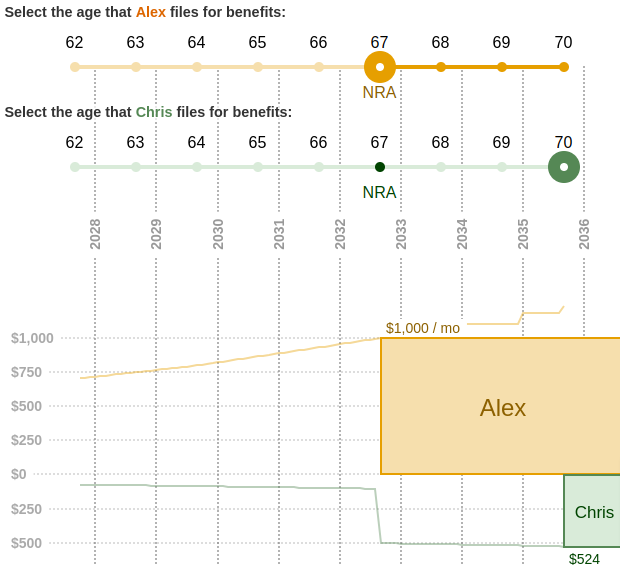
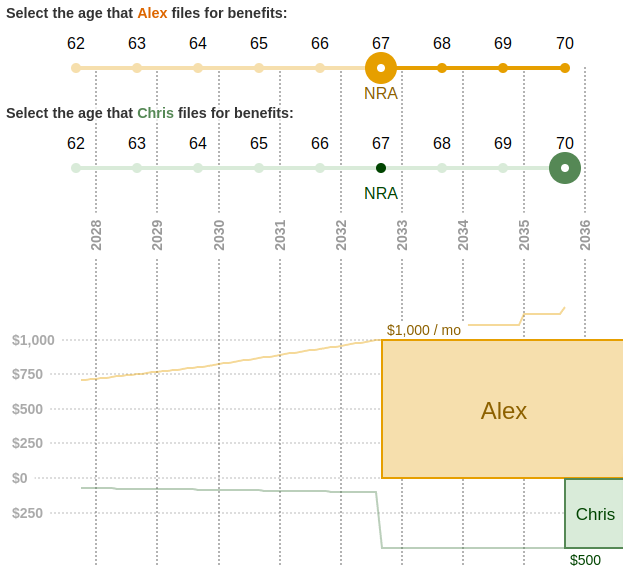
Fix spousal benefits in the case of delayed credits. (#352)

diff --git a/src/lib/recipient.ts b/src/lib/recipient.ts
@@ -636,12 +636,13 @@ export class Recipient {
     filingDate: MonthDate,
     atDate: MonthDate
   ): Money {
-    // Calculate the starting date as the latest of the two filing dates:
-    const startDate = spouseFilingDate.greaterThan(filingDate)
-      ? spouseFilingDate
-      : filingDate;
-
-    return this.spousalBenefitOnDateGivenStartDate(spouse, startDate, atDate);
+    // TODO: Remove this function since it's just aliased now.
+    return this.spousalBenefitOnDateGivenStartDate(
+      spouse,
+      spouseFilingDate,
+      filingDate,
+      atDate
+    );
   }
 
   /**
@@ -650,9 +651,15 @@ export class Recipient {
    */
   spousalBenefitOnDateGivenStartDate(
     spouse: Recipient,
-    startDate: MonthDate,
+    spouseFilingDate: MonthDate,
+    filingDate: MonthDate,
     atDate: MonthDate
   ): Money {
+    // Calculate the starting date as the latest of the two filing dates:
+    const startDate = spouseFilingDate.greaterThan(filingDate)
+      ? spouseFilingDate
+      : filingDate;
+
     // If the spouse has lower earnings, return $0:
     if (this.higherEarningsThan(spouse)) return Money.zero();
 
@@ -672,10 +679,31 @@ export class Recipient {
     }
 
     const normalRetirementDate = this.normalRetirementDate();
+
+    // Spousal Benefits start on after normal retirement date:
     if (startDate.greaterThanOrEqual(normalRetirementDate)) {
-      return Money.fromCents(spousalCents).floorToDollar();
+      if (filingDate.lessThanOrEqual(normalRetirementDate)) {
+        return Money.fromCents(spousalCents).floorToDollar();
+      }
+      // https://www.bogleheads.org/forum/viewtopic.php?p=3986794#p3986794
+      // https://secure.ssa.gov/apps10/poms.nsf/lnx/0300615694
+      // The combined spousal and personal benefits cannot be greater than
+      // 50% of the higher earner's PIA, except in the case where personal
+      // benefits alone are higher than 50% of the higher earner's PIA.
+      // The way this is computed is to reduce the spousal benefit if the sum
+      // of the spousal and personal benefits exceeds 50% of the higher
+      // earner's PIA.
+      const personalBenefit = this.benefitOnDate(filingDate, atDate);
+      const spouseBenefitCents =
+        spousePiaAmountCents / 2 - personalBenefit.cents();
+      if (spouseBenefitCents <= 0) {
+        return Money.zero();
+      } else {
+        return Money.fromCents(spouseBenefitCents).floorToDollar();
+      }
     }
 
+    // Spousal Benefits start before normal retirement date:
     let monthsBeforeNra: number =
       normalRetirementDate.monthsSinceEpoch() - startDate.monthsSinceEpoch();
     if (monthsBeforeNra <= 36) {

diff --git a/src/test/recipient.test.ts b/src/test/recipient.test.ts
@@ -561,6 +561,7 @@ describe("Recipient", () => {
     s.setPia(Money.from(3000.0));
 
     // If they haven't filed yet, they should have zero benefit:
+    // 1960 birthdays are a age 67 NRA.
     r.birthdate = Birthdate.FromYMD(1960, 0, 5);
     s.birthdate = Birthdate.FromYMD(1960, 0, 5);
     expect(
@@ -637,17 +638,28 @@ describe("Recipient", () => {
         .value()
     ).toEqual(372);
 
-    // Delayed retirement should not add any additional benefit:
+    // Delaying spousal benefit should not increase spousal benefit:
     expect(
       r
         .spousalBenefitOnDate(
           s,
-          MonthDate.initFromYearsMonths({ years: 2022, months: 1 }),
+          // s files at age 69
           MonthDate.initFromYearsMonths({ years: 2029, months: 0 }),
+          // r files at age 67
+          MonthDate.initFromYearsMonths({ years: 2027, months: 0 }),
+          // spousal benefit at age 69
           MonthDate.initFromYearsMonths({ years: 2029, months: 0 })
         )
         .value()
     ).toEqual(500.0);
+
+    // However delayed retirement can decrease spousal benefit, since
+    // the total benefit is capped at half of the spousal PIA.
+    const age70 = MonthDate.initFromYearsMonths({ years: 2030, months: 0 });
+    expect(r.benefitOnDate(age70, age70).value()).toEqual(1240.0);
+    expect(r.spousalBenefitOnDate(s, age70, age70, age70).value()).toEqual(
+      260.0 // 3000 / 2 - 1240 = 260
+    );
   });
 
   it("calculates spousal benefits for a specific example", () => {
@@ -663,8 +675,11 @@ describe("Recipient", () => {
       s
         .spousalBenefitOnDate(
           r,
+          // s files at age 66
           MonthDate.initFromYearsMonths({ years: 2028, months: 0 }),
+          // r files at age 62
           MonthDate.initFromYearsMonths({ years: 2024, months: 0 }),
+          // spousal benefit at age 67
           MonthDate.initFromYearsMonths({ years: 2029, months: 0 })
         )
         .value()

diff --git a/src/routes/guides/spousal-benefit-filing-date/+page.svelte b/src/routes/guides/spousal-benefit-filing-date/+page.svelte
@@ -220,7 +220,7 @@
       src={LateFile100Image}
       width="620"
       height="566"
-      alt="Screenshot of benefit chart for two users, Alex and Chris. Alex filed at 67 while Chris filed at 70. Alex's benefit is $1,000 / mo and Chris's combined benefit is now $524 / mo."
+      alt="Screenshot of benefit chart for two users, Alex and Chris. Alex filed at 67 while Chris filed at 70. Alex's benefit is $1,000 / mo and Chris's combined benefit is now $500 / mo."
     />
   </figure>
 
@@ -230,12 +230,15 @@
     delayed credits from filing late.
   </p>
   <p>
-    Chris's spousal benefit is not increased however because spousal benefits do
-    not increase from delayed credits. The spousal benefit is still $400 / mo.
+    However, the spousal benefit cannot increase the combined benefit for Chris
+    to an amount greater than half of Alex's PIA. So, the spousal benefit is
+    reduced by $24 / mo to $376 / mo to keep the total benefit at $500 / mo. [<a
+      href="https://secure.ssa.gov/apps10/poms.nsf/lnx/0300615694">ssa.gov</a
+    >].
   </p>
   <p>
-    The resulting total is $524 / mo, which is $124 / mo from Chris's personal
-    and $400 / mo from the spousal benefit.
+    The resulting total is $500 / mo, which is $124 / mo from Chris's personal
+    and $376 / mo from the spousal benefit.
   </p>
 
   <br class="clear" />

diff --git a/src/lib/components/SpousalBenefit.svelte b/src/lib/components/SpousalBenefit.svelte
@@ -254,8 +254,8 @@
             </ul>
             <p>
               Since <RName {r} apos /> personal and spousal benefits may begin on
-              different dates, the reduction factors for early filing may applied
-              from different starting dates for each of the two benefits.
+              different dates, the reduction factors for early filing may apply from
+              different starting dates for each of the two benefits.
             </p>
           {/if}
           <h4>Early Filing for Spousal Benefits</h4>
@@ -299,6 +299,14 @@
             than <RName {r} apos /> normal retirement age, unlike personal benefits,
             there are no additional delayed retirement credits to increase spousal
             benefits.
+          </p>
+          <p>
+            Furthermore, the spousal benefit amount cannot increase the combined
+            benefit for <RName {r} /> to an amount greater than half of <RName
+              r={s}
+              apos
+            /> Primary Insurance Amount. Therefore, <RName {r} apos /> delayed credits
+            can potentially reduce the spousal benefit by same amount.
           </p>
           <h4>Spousal Benefit Filing Date Examples</h4>
           <p>
